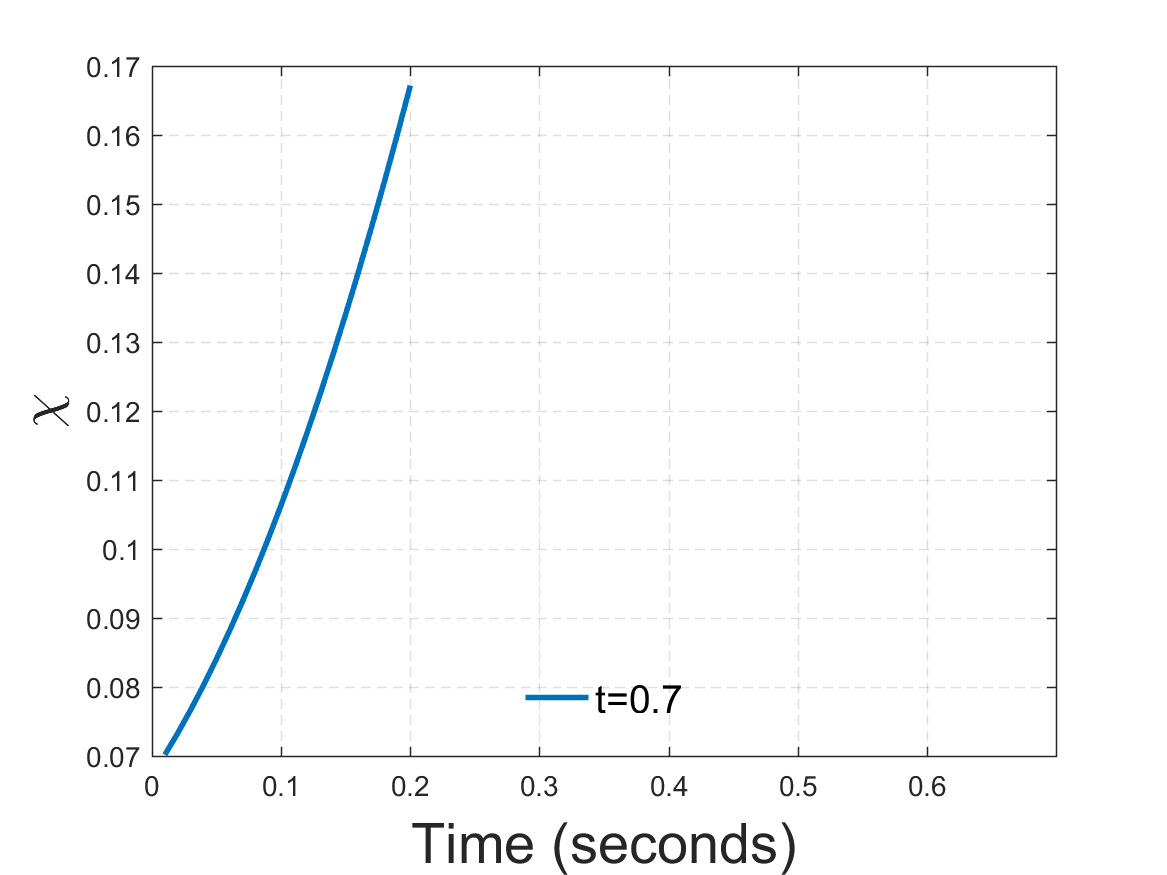
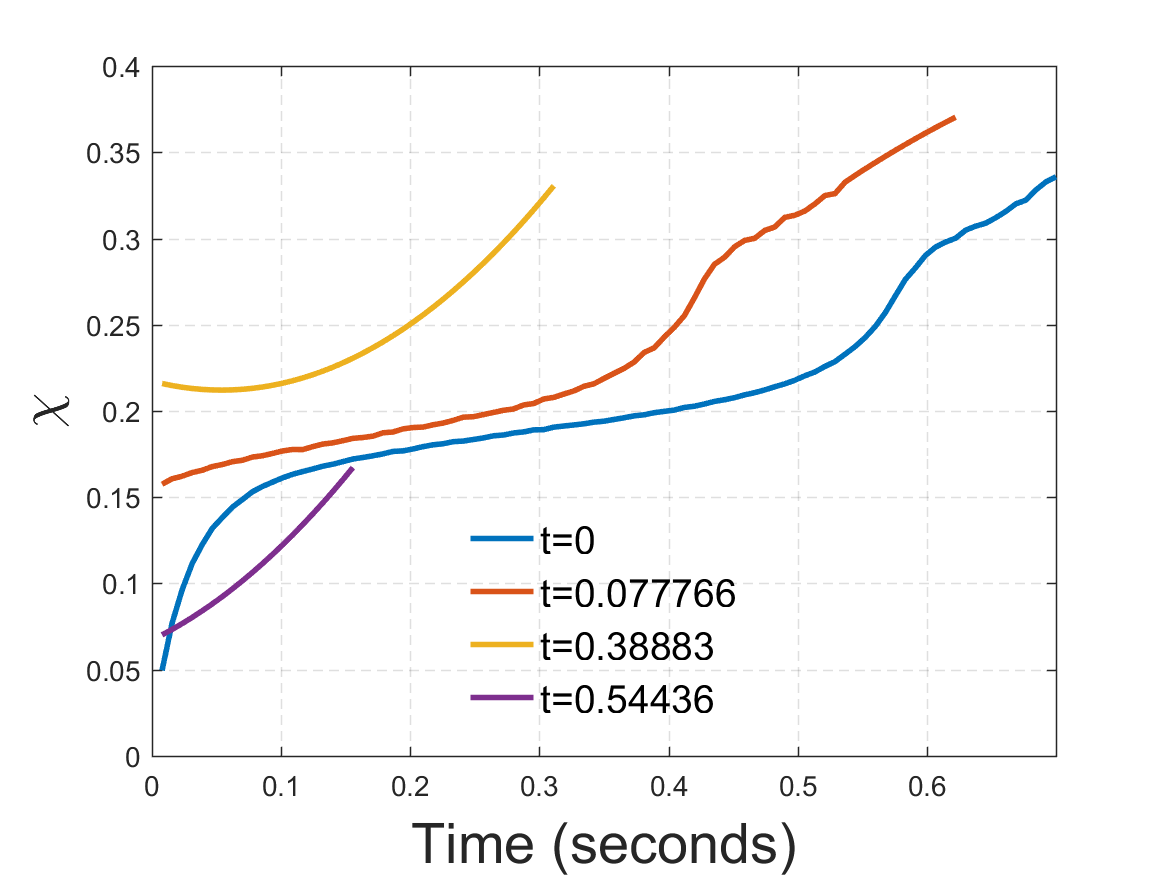
minor

diff --git a/theory/misc/Chi_gamma_value/fix_t0_vary_tf/Chi_gamma_plot_fix_t0_v2.m b/theory/misc/Chi_gamma_value/fix_t0_vary_tf/Chi_gamma_plot_fix_t0_v2.m
@@ -5,9 +5,13 @@ sohr_dir = fullfile(fileparts(mfilename('fullpath')), '..', '..', '..', '..', '.
 
 %% global settings
 fig_prefix = 'Chi_value';
-N_plot = 1;
-time_cell = cell(3, 1);
-yvalue_cell = cell(3, 1);
+% time in unit of tau
+t_value = [0.0, 0.1, 0.5, 0.7];
+delta_t_vec = [0.01, 0.02, 0.03, 0.04, 0.05, 0.06, 0.07, 0.08, 0.09, 0.1, 0.11, 0.12, 0.13, 0.14, 0.15, 0.16, 0.17, 0.18, 0.19, 0.2, 0.21, 0.22, 0.23, 0.24, 0.25, 0.26, 0.27, 0.28, 0.29, 0.3, 0.31, 0.32, 0.33, 0.34, 0.35, 0.36, 0.37, 0.38, 0.39, 0.4, 0.41, 0.42, 0.43, 0.44, 0.45, 0.46, 0.47, 0.48, 0.49, 0.5, 0.51, 0.52, 0.53, 0.54, 0.55, 0.56, 0.57, 0.58, 0.59, 0.6, 0.61, 0.62, 0.63, 0.64, 0.65, 0.66, 0.67, 0.68, 0.69, 0.7, 0.71, 0.72, 0.73, 0.74, 0.75, 0.76, 0.77, 0.78, 0.79, 0.8, 0.81, 0.82, 0.83, 0.84, 0.85, 0.86, 0.87, 0.88, 0.89, 0.9];
+% number of lines
+N_plot = length(t_value);
+time_cell = cell(N_plot, 1);
+yvalue_cell = cell(N_plot, 1);
 
 N_S = 110;
 N_R = 1230;
@@ -15,8 +19,6 @@ atom_f = 'HA4';
 spe_name = 'iR';
 tau = 0.777660157519;
 end_t = '0.9';
-t_value = 0.7;
-delta_t_vec = [0.01, 0.02, 0.03, 0.04, 0.05, 0.06, 0.07, 0.08, 0.09, 0.1, 0.11, 0.12, 0.13, 0.14, 0.15, 0.16, 0.17, 0.18, 0.19, 0.2, 0.21, 0.22, 0.23, 0.24, 0.25, 0.26, 0.27, 0.28, 0.29, 0.3, 0.31, 0.32, 0.33, 0.34, 0.35, 0.36, 0.37, 0.38, 0.39, 0.4, 0.41, 0.42, 0.43, 0.44, 0.45, 0.46, 0.47, 0.48, 0.49, 0.5, 0.51, 0.52, 0.53, 0.54, 0.55, 0.56, 0.57, 0.58, 0.59, 0.6, 0.61, 0.62, 0.63, 0.64, 0.65, 0.66, 0.67, 0.68, 0.69, 0.7, 0.71, 0.72, 0.73, 0.74, 0.75, 0.76, 0.77, 0.78, 0.79, 0.8, 0.81, 0.82, 0.83, 0.84, 0.85, 0.86, 0.87, 0.88, 0.89, 0.9];
 
 % species renaming
 % "npropyloxy", "nRO"
@@ -146,19 +148,21 @@ for i = 1:length(path_idx)
 end
 f_interp = scatteredInterpolant(t0, tf, f_value);
 
-% t0 vector
-tf_vec = delta_t_vec + t_value;
-t0_vec = ones(1, length(delta_t_vec));
-t0_vec = t0_vec.* t_value;
-Z_tmp = f_interp(t0_vec, tf_vec);
-% check data
-for i=1:length(delta_t_vec)
-    if delta_t_vec(i) + t_value > str2double(end_t)
-        Z_tmp(i) = nan;
+for idx=1:N_plot
+    % t0 vector
+    tf_vec = delta_t_vec + t_value(idx);
+    t0_vec = ones(1, length(delta_t_vec));
+    t0_vec = t0_vec.* t_value(idx);
+    Z_tmp = f_interp(t0_vec, tf_vec);
+    % check data
+    for i=1:length(delta_t_vec)
+        if delta_t_vec(i) + t_value(idx) > str2double(end_t)
+            Z_tmp(i) = nan;
+        end
     end
+    time_cell{idx, 1} = delta_t_vec .* tau;
+    yvalue_cell{idx, 1} = Z_tmp;
 end
-time_cell{1, 1} = delta_t_vec .* tau;
-yvalue_cell{1, 1} = Z_tmp;
 
 %% plot
 fig = figure();
@@ -176,7 +180,7 @@ colorxn_idx = 1;
 markerxn_idx = 1;
 legend_name = cell(N_plot,1);
 for idx=1:N_plot
-    legend_name{idx, 1} = ['t=', num2str(t_value)];
+    legend_name{idx, 1} = ['t=', num2str(t_value(idx)*tau)];
     
     plot(time_cell{idx, 1}, yvalue_cell{idx, 1}, ...
         'LineWidth', 2, ...
